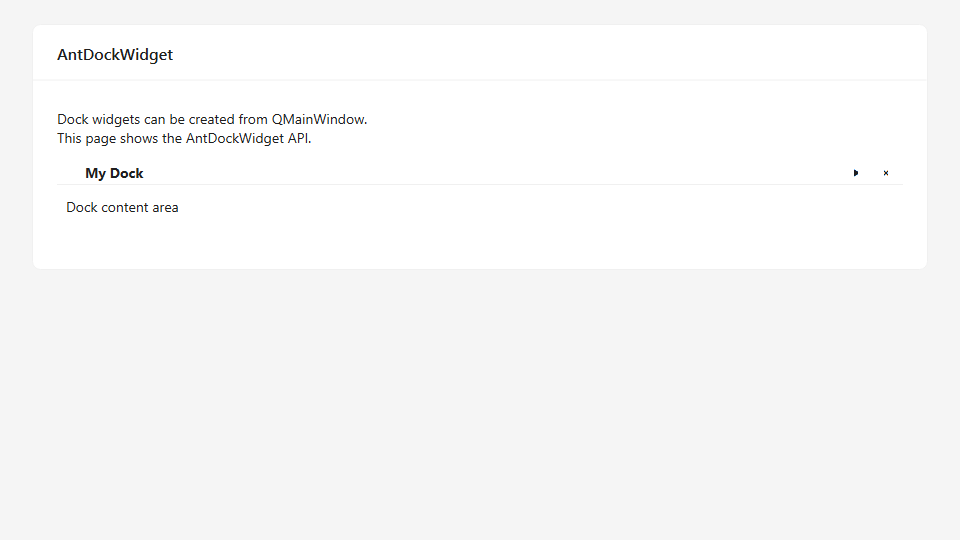
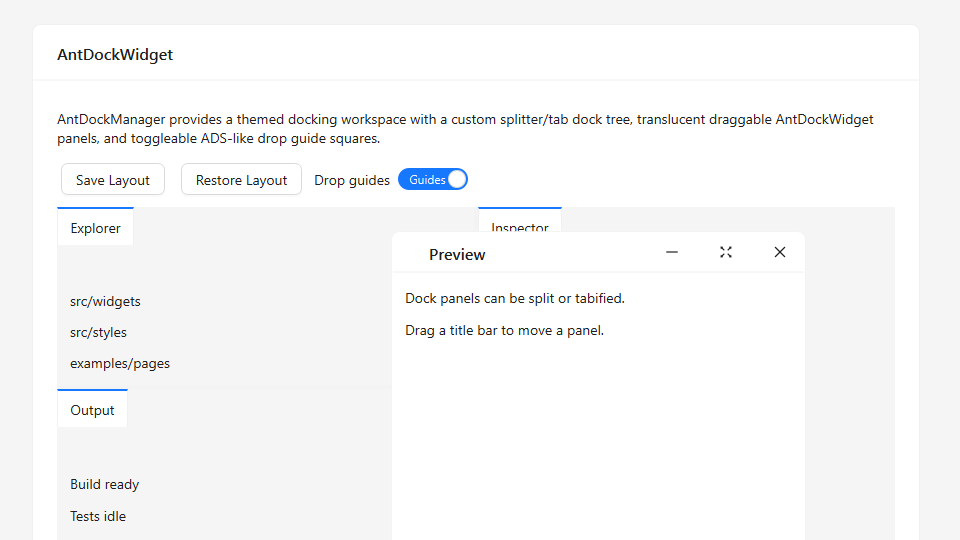
Update DockWidget docs and README thumbnails

diff --git a/docs/project-status.md b/docs/project-status.md
@@ -22,7 +22,7 @@ This snapshot records the current state after the Showcase, ColorPicker popup, A
 
 ## Recent Completed Work
 
-- Added `AntDockManager` as the themed docking workspace companion for `AntDockWidget`, with a custom splitter/tab dock tree instead of Qt's native dock layout, center tab placement, named perspectives, translucent drag windows, toggleable ADS-like center/edge drop guide squares, deterministic guided drop placement, and a floating drop preview window that marks the target layout region while dragging.
+- Added `AntDockManager` as the themed docking workspace companion for `AntDockWidget`, with a custom splitter/tab dock tree instead of Qt's native dock layout, center tab placement, named perspectives, threshold-activated translucent drag previews, toggleable ADS-like center/edge drop guide squares, deterministic guided drop placement, manager-owned floating dock windows using the AntWindow-style Windows native frame/DWM rounded-corner/shadow path, double-click maximize/restore, and drag-back-to-layout support.
 - Added a pure-control Showcase page matching the Ant Design homepage showcase without the website shell, theme sidebar, or decorative background.
 - Reworked `AntColorPicker` from a modal editor to an AntD-like click-open popup panel.
 - Added a non-maximized `AntWindow` outline so frameless windows remain distinguishable on similarly colored desktop backgrounds.
@@ -94,6 +94,17 @@ This snapshot records the current state after the Showcase, ColorPicker popup, A
 - Refreshed and corrected the README dark thumbnails for `AntCalendar`, `AntAnchor`, `AntSplitter`, `AntLayout`, and `AntScrollBar`; `AntCalendar` now themes its internal `QTableView` viewport, `AntLayoutFooter` uses `colorBgLayout`, and the Anchor/Splitter/ScrollBar demo surfaces no longer keep hard-coded light fills in dark mode.
 - Replaced the shared `image-basic` demo asset and refreshed the affected README component thumbnails for `AntAvatar` and `AntImage` in both light and dark modes.
 - Updated `AntQRCode`'s default value, example, and README light/dark thumbnails so the default QR code scans to the repository URL: `https://github.com/sorrowfeng/qt-ant-design`; the QRCode example now also exposes an editable `AntInput` and primary Regenerate button that call `AntQRCode::setValue()` to rebuild the embedded byte-mode + Reed-Solomon QR matrix.
+
+Latest targeted DockWidget floating-window validation:
+
+```powershell
+cmake --build build --config Debug --target TestAntQtExtensions qt-ant-design-example
+.\build\tests\Debug\TestAntQtExtensions.exe dockManager -o dockManager.xml,xml
+cmake --build build\readme-dock-capture\out --config Debug
+.\build\readme-dock-capture\out\Debug\readme_dock_capture.exe D:\Project\GitProject\qt-ant-design
+```
+
+Result: the `dockManager` targeted test passed, the example Debug build succeeded, and the README `AntDockWidget` light/dark thumbnails were regenerated at `960x540` on `2026-05-17` with the `Preview` dock shown as a manager-owned floating native window.
 
 Latest targeted `image-basic` asset validation:
 

diff --git a/AGENTS.md b/AGENTS.md
@@ -49,7 +49,7 @@
 - `AntPlainTextEdit` — QPlainTextEdit + eventFilter Style，3 变体
 - `AntMenuBar` — QMenuBar + drawControl Style
 - `AntToolBar` — QToolBar + drawControl Style，浮动阴影
-- `AntDockWidget` — QDockWidget，自定义标题栏，Win32 resize；`AntDockManager` 使用自研 splitter/tab 停靠树而非 Qt 原生 dock layout，提供中心标签页停靠、命名布局快照、拖动窗体半透明、可通过 `setDropGuideEnabled()` 开关的 ADS-like 中心/边缘停靠小方格、按引导位置确定落位和拖动浮动预览窗口核心容器
+- `AntDockWidget` — QDockWidget，自定义标题栏，Win32 resize；`AntDockManager` 使用自研 splitter/tab 停靠树而非 Qt 原生 dock layout，提供中心标签页停靠、命名布局快照、超过拖动阈值后激活的半透明拖动预览、可通过 `setDropGuideEnabled()` 开关的 ADS-like 中心/边缘停靠小方格、按引导位置确定落位、manager-owned 浮动 Dock 原生窗口、AntWindow-style Windows native frame/DWM 圆角阴影和拖回布局
 - `AntAutoComplete` — QWidget 组合，弹出建议，键盘导航
 - `AntCalendar` — QTableView + Model/View，Day/Month/Year 三态
 - `AntColorPicker` — inline trigger + 弹窗编辑器，showText，HS field，RGB/HSV，预设/自定义颜色
@@ -259,7 +259,7 @@
 | --- | --- | --- | --- |
 | `AntWidget` | — | 是 | 基础 QWidget，自动主题切换 |
 | `AntWindow` | `QProxyStyle` | 是 | 无边框窗口，自定义标题栏，Win11 Snap/Win10 DWM 阴影与圆角 mask 同步，标题栏按钮 API，主题切换遮罩动画 |
-| `AntDockWidget` | 自绘 | 是 | 可停靠面板，Win32 resize；配套 `AntDockManager` 使用自研 splitter/tab 停靠树，提供中心标签页停靠、拖动窗体半透明、可开关的 ADS-like 中心/边缘停靠小方格、按引导位置确定落位、拖动浮动预览窗口和命名布局快照 |
+| `AntDockWidget` | 自绘 | 是 | 可停靠面板，Win32 resize；配套 `AntDockManager` 使用自研 splitter/tab 停靠树，提供中心标签页停靠、阈值激活的半透明拖动预览、可开关的 ADS-like 中心/边缘停靠小方格、按引导位置确定落位、manager-owned 浮动 Dock 原生窗口、AntWindow-style Windows native frame/DWM 圆角阴影、拖回布局和命名布局快照 |
 | `AntStatusBar` | `QProxyStyle` | 是 | 状态栏 |
 | `AntRibbon` | 自绘 | 是 | Ribbon 顶部命令区，Page/Group、大/小 action、嵌入 Ant/Qt 控件，支持 Tab 指示条/折叠动画、折叠弹出并可接入 AntWindow |
 | `AntScrollBar` | `QProxyStyle` | 是 | 8px 细滚动条，自动隐藏，示例 QScrollArea 暗色 surface 跟随主题 |

diff --git a/docs/visual-audit.md b/docs/visual-audit.md
@@ -156,7 +156,7 @@ Qt extension widgets have no official AntD component reference. Audit them again
 | MenuBar | Local Pass | `build/qt-extension-bars-local-light.png`, `build/qt-extension-bars-local-dark.png` | Checked horizontal menu labels and container fill against token backgrounds. MenuBar text and empty area stay token-driven in both themes. Popup menu styling remains a future optional extension because this widget currently scopes itself to the bar. |
 | ToolBar | Local Pass | `build/qt-extension-bars-local-light.png`, `build/qt-extension-bars-local-dark.png` | Checked toolbar action labels, separator, handle styling, and dark-mode contrast. `AntToolBar` now marks internally-created `QToolButton` action widgets and paints them through `AntToolBarStyle`, preventing native black action text on dark surfaces. |
 | ToolButton | Local Pass | `build/qt-extension-bars-local-light.png`, `build/qt-extension-bars-local-dark.png` | Checked default, hover, active, primary, text, danger, loading, disabled, and menu states. Independent `AntToolButton` colors, borders, loading spinner, and menu arrow remain token-aligned in both themes. |
-| DockWidget | Local Pass | `build/qt-extension-window-local-light.png`, `build/qt-extension-window-local-dark.png` | Checked title bar, title text, float/close controls, separator, and content surface. `AntDockWidget` now synchronizes token palettes for the dock, title bar labels, and assigned content widget so the title remains readable in dark mode. |
+| DockWidget | Local Pass | `build/qt-extension-window-local-light.png`, `build/qt-extension-window-local-dark.png`; README `resources/images/components/ant-dock-widget-light.png`, `resources/images/components/ant-dock-widget-dark.png` | Checked embedded dock title/content tokens plus the floating `Preview` dock capture. `AntDockManager` now uses a custom splitter/tab tree, threshold-activated translucent drag previews, manager-owned floating native windows, and the AntWindow-style Windows native frame/DWM rounded-corner/shadow path while preserving drag-back-to-layout behavior. |
 | Window | Local Pass | `build/qt-extension-window-local-light.png`, `build/qt-extension-window-local-dark.png` | Checked frameless title bar, title text, pin/theme/minimize/maximize/close controls, split line, outer outline, outer surface, central content, and theme transition overlay behavior. `AntWindow` now applies token palettes to assigned central widgets, draws a token border around non-maximized windows, supports Windows 11 Snap hit-testing/Snap Layout hover on Windows, uses a transparent software shadow host for lightweight Win11-like four-sided Windows 10 no-caption shadows that start at the window edge with cleaner corner transitions, clears title-bar hover state on leave, and wraps built-in theme switching in a high-DPI-safe captured-frame soft reveal. |
 | PlainTextEdit | Local Pass | `build/qt-extension-content-local-light.png`, `build/qt-extension-content-local-dark.png` | Checked outlined text, filled placeholder, disabled state, text palette, focus border, and embedded scrollbars. Disabled text/background now use token disabled colors instead of inheriting active text. |
 | Log | Local Pass | `build/qt-extension-content-local-light.png`, `build/qt-extension-content-local-dark.png` | Checked monospace log surface, debug/info/success/warning/error colors, and dark-mode contrast. `AntLog` now applies token background palettes, recolors existing entries on theme change, and avoids the native white text-edit surface in dark mode. |
@@ -252,7 +252,7 @@ Qt extension widgets have no official AntD component reference. Audit them again
 | Qt Extension | MenuBar | N/A | MenuBar | Local Pass | Qt-only desktop extension; local consistency audited against `build/qt-extension-bars-local-light.png` and `build/qt-extension-bars-local-dark.png`. Horizontal menu labels and empty-area fill are token-driven; popup menus remain future optional extension behavior. |
 | Qt Extension | ToolBar | N/A | ToolBar | Local Pass | Qt-only desktop extension; local consistency audited against `build/qt-extension-bars-local-light.png` and `build/qt-extension-bars-local-dark.png`. Action buttons, separator, and dark-mode contrast are token-aligned after routing toolbar `QToolButton` children through `AntToolBarStyle`. |
 | Qt Extension | ToolButton | N/A | ToolButton | Local Pass | Qt-only desktop extension; local consistency audited against `build/qt-extension-bars-local-light.png` and `build/qt-extension-bars-local-dark.png`. Default, hover, active, primary, text, danger, loading, disabled, and menu states are token-aligned; no official AntD visual reference exists. |
-| Qt Extension | DockWidget | N/A | DockWidget | Local Pass | Qt-only desktop extension; local consistency audited against `build/qt-extension-window-local-light.png` and `build/qt-extension-window-local-dark.png`. Title text, control buttons, separator, and content palette are aligned to project tokens; no official AntD visual reference exists. |
+| Qt Extension | DockWidget | N/A | DockWidget | Local Pass | Qt-only desktop extension; local consistency audited against `build/qt-extension-window-local-light.png`, `build/qt-extension-window-local-dark.png`, and refreshed README floating-state thumbnails. Embedded title/content tokens, ADS-like guide/preview behavior, manager-owned floating native windows, AntWindow-style Windows frame/DWM rounded corners and shadow handling, and drag-back-to-layout behavior are covered locally; no official AntD visual reference exists. |
 | Qt Extension | PlainTextEdit | N/A | PlainTextEdit | Local Pass | Qt-only desktop extension; local consistency audited against `build/qt-extension-content-local-light.png` and `build/qt-extension-content-local-dark.png`. Outlined, filled, disabled, text, focus, and embedded scrollbar states are aligned to project tokens; no official AntD visual reference exists. |
 | Qt Extension | Log | N/A | Log | Local Pass | Qt-only desktop extension; local consistency audited against `build/qt-extension-content-local-light.png` and `build/qt-extension-content-local-dark.png`. Log surface, level colors, stored-entry theme rebuild, and dark-mode contrast are aligned to project tokens; no official AntD visual reference exists. |
 | Qt Extension | Masonry | N/A | Masonry | Local Pass | Qt-only desktop extension; local consistency audited against `build/qt-extension-content-local-light.png` and `build/qt-extension-content-local-dark.png`. Shortest-column layout, varied item heights, clear-state minimum height, and token background are aligned; no official AntD visual reference exists. |

diff --git a/README.md b/README.md
@@ -374,7 +374,7 @@ Light and dark thumbnails are generated from the example pages; interactive cont
 - `AntToolButton`: QToolButton + QProxyStyle with dropdown arrow animation
 - `AntMenuBar`: themed QMenuBar
 - `AntToolBar`: themed QToolBar with floating shadow
-- `AntDockWidget` / `AntDockManager`: themed dock panels with custom title bars, a custom splitter/tab dock tree, center tab placement, named perspectives, translucent drag window, toggleable ADS-like center / edge drop guide squares (`setDropGuideEnabled()`), deterministic guided drop placement that does not rely on Qt's native dock layout, floating drop preview window, and Win32 resize edges
+- `AntDockWidget` / `AntDockManager`: themed dock panels with custom title bars, a custom splitter/tab dock tree, center tab placement, named perspectives, toggleable ADS-like center / edge drop guide squares (`setDropGuideEnabled()`), deterministic guided drop placement that does not rely on Qt's native dock layout, threshold-activated translucent drag previews, manager-owned floating dock windows with AntWindow-style Windows native frame / DWM rounded corners and shadow handling, double-click maximize / restore, and drag-back-to-layout support
 - `AntScrollArea`: QScrollArea + AntScrollBar + QScroller gesture scrolling
 - `AntPlainTextEdit`: multi-line text editor with 3 variants, TextArea-style resize grip, and a context menu
 - `AntLog`: 5-level colored log output (Debug / Info / Success / Warning / Error) with timestamps

diff --git a/README.zh-CN.md b/README.zh-CN.md
@@ -374,7 +374,7 @@ Ant Design 标准组件按 [`ant-design/ant-design`](https://github.com/ant-desi
 - `AntToolButton`：QToolButton + QProxyStyle，dropdown 箭头动画
 - `AntMenuBar`：QMenuBar 主题化
 - `AntToolBar`：QToolBar 主题化，浮动阴影
-- `AntDockWidget` / `AntDockManager`：主题化停靠面板，自定义标题栏，使用自研 splitter/tab 停靠树而非 Qt 原生 dock layout，支持中心标签页停靠、命名布局快照、拖动窗体半透明、可通过 `setDropGuideEnabled()` 开关的 ADS-like 中心/边缘停靠小方格、按引导位置确定落位、拖动浮动预览窗口和 Win32 resize 边缘
+- `AntDockWidget` / `AntDockManager`：主题化停靠面板，自定义标题栏，使用自研 splitter/tab 停靠树而非 Qt 原生 dock layout，支持中心标签页停靠、命名布局快照、可通过 `setDropGuideEnabled()` 开关的 ADS-like 中心/边缘停靠小方格、按引导位置确定落位、超过拖动阈值后才激活的半透明拖动预览、由 manager 归属的浮动 Dock 原生窗口、AntWindow 风格 Windows native frame / DWM 圆角阴影、双击最大化/还原，以及从浮窗拖回布局
 - `AntScrollArea`：QScrollArea + AntScrollBar + QScroller 手势滚动
 - `AntPlainTextEdit`：多行文本编辑器，3 种变体，TextArea 式右下角缩放柄，上下文菜单
 - `AntLog`：5 级别彩色日志输出（Debug/Info/Success/Warning/Error），时间戳